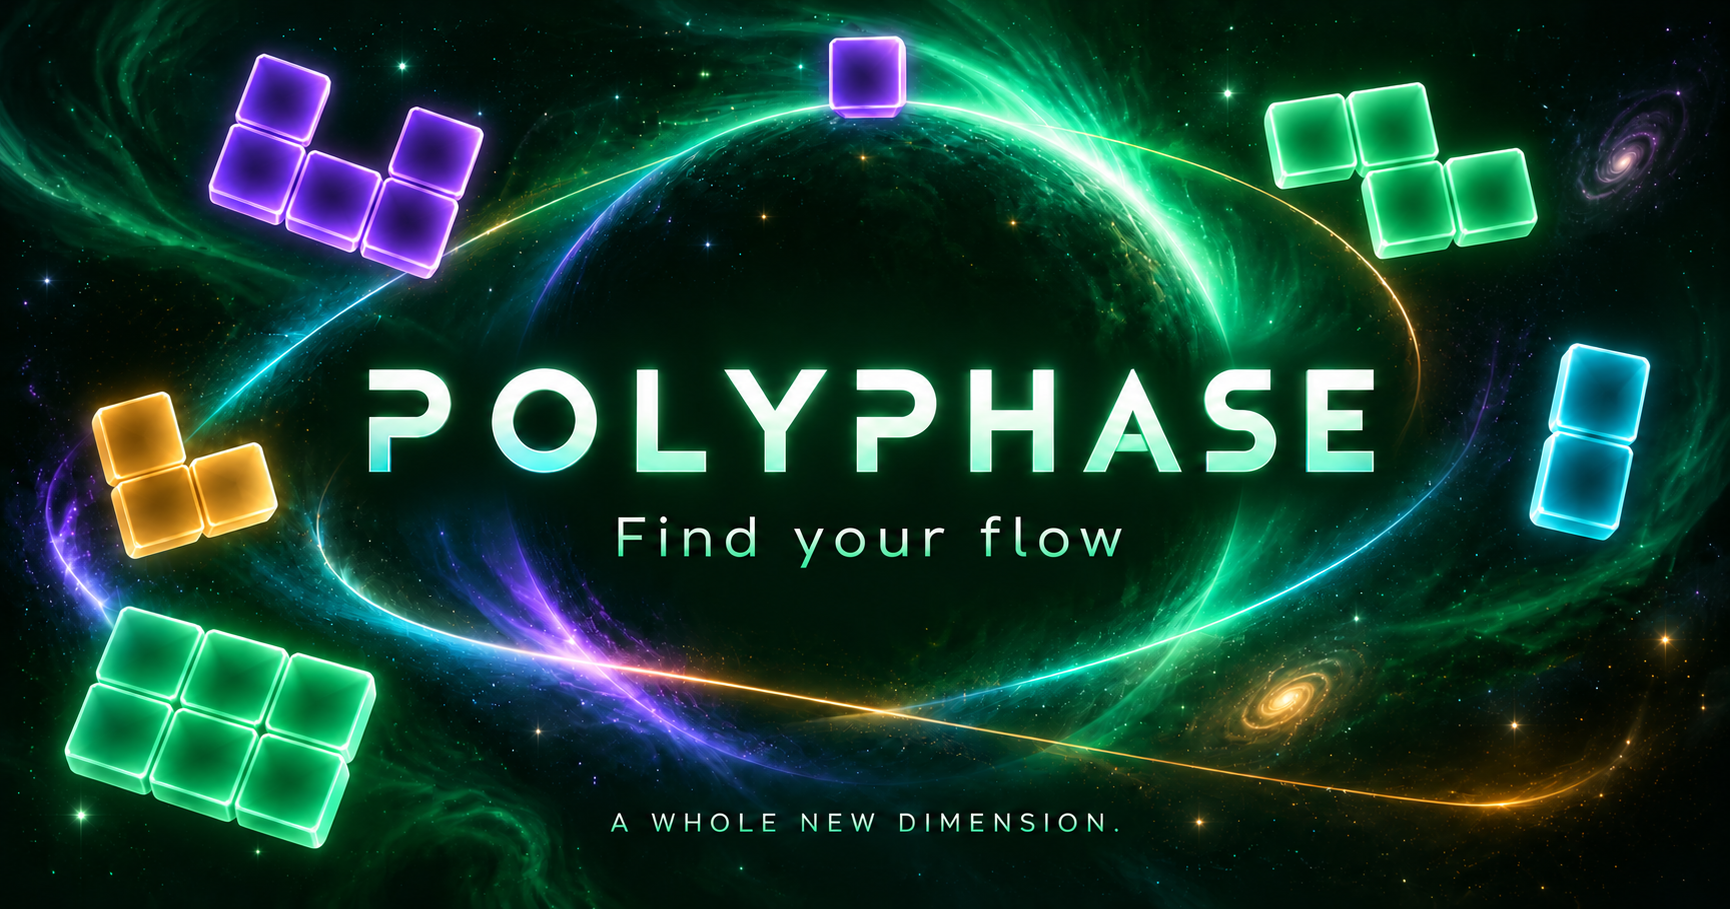
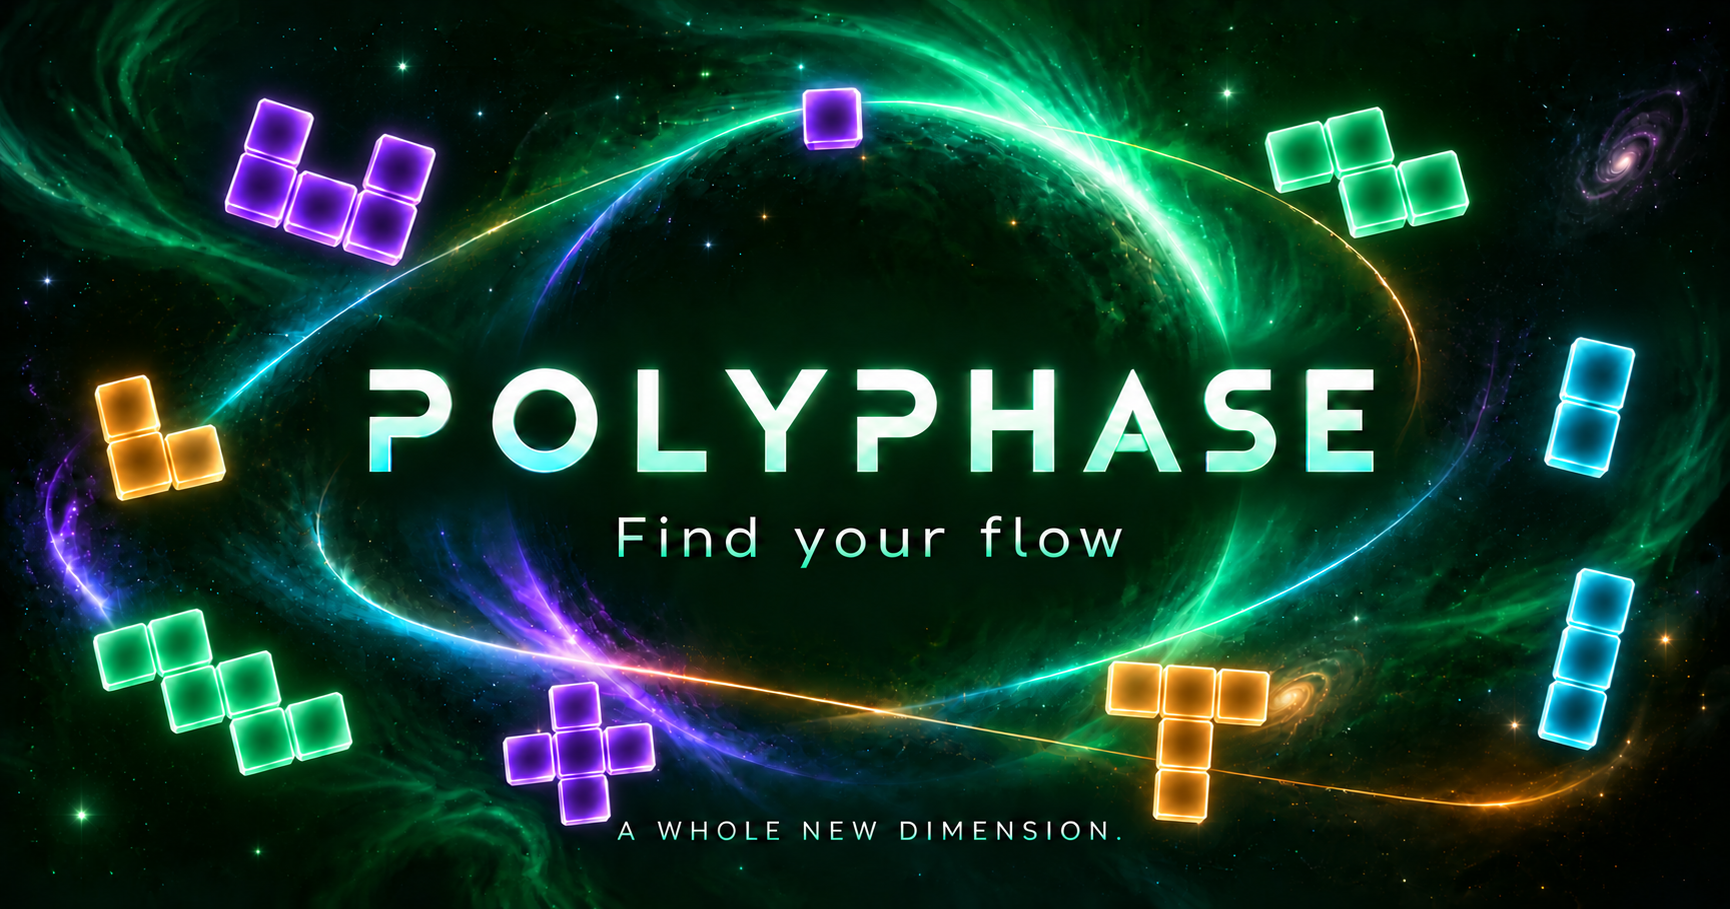
Add nine varied pieces and W hexomino to share card

diff --git a/index.html b/index.html
@@ -23,7 +23,7 @@
     <meta property="og:image:height" content="909" />
     <meta
       property="og:image:alt"
-      content="POLYPHASE: Find your flow, with one glowing polyomino from each size family, one through six squares, around a cosmic green halo."
+      content="POLYPHASE: Find your flow, with nine glowing polyominoes spanning one through six squares, including a six-square W, around a cosmic green halo."
     />
     <meta name="twitter:card" content="summary_large_image" />
     <meta name="twitter:title" content="POLYPHASE | Find your flow" />
@@ -34,7 +34,7 @@
     <meta name="twitter:image" content="https://mtschoen.github.io/polyphase/share-card-v2.png" />
     <meta
       name="twitter:image:alt"
-      content="POLYPHASE: Find your flow, with one glowing polyomino from each size family, one through six squares, around a cosmic green halo."
+      content="POLYPHASE: Find your flow, with nine glowing polyominoes spanning one through six squares, including a six-square W, around a cosmic green halo."
     />
     <link rel="icon" type="image/svg+xml" href="/icon.svg" />
     <title>POLYPHASE | Find your flow</title>
